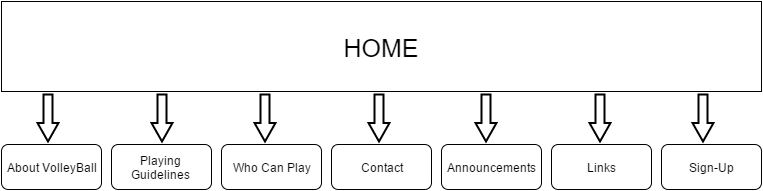
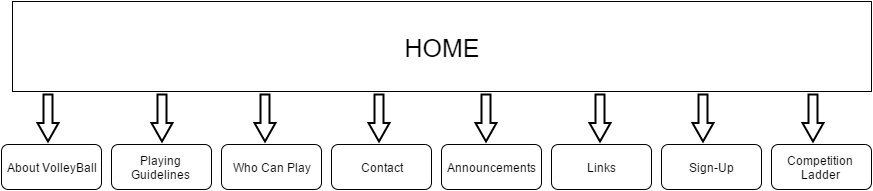
Final Commit

diff --git a/Competition_Ladder.html b/Competition_Ladder.html
@@ -22,10 +22,135 @@
     <li><a href='Announcements.html' id="link">Announcements</a></li>
     <li><a href='Links.html' id="link">Links</a></li>
     <li><a href='Sign-Up.html' id="link">Sign-Up </a></li>
+    <li><a href='Competition_Ladder.html' id="link">Competition Ladder </a></li>
+    
 </ul>
 </nav>
 <!-- InstanceBeginEditable name="Content" -->
-<div id='content'></div>
+<div id='content'><table width="873" height="521" border="1">
+  <tr>
+    <td>Pos</td>
+    <td>Team</td>
+    <td>Played</td>
+    <td>Wins</td>
+    <td>Losses</td>
+    <td>Draws</td>
+    <td>For Pts</td>
+    <td>Against Pts</td>
+    <td>Points</td>
+  </tr>
+  <tr>
+    <td align="right">1</td>
+    <td><a name="RANGE!C5">Beachies</a></td>
+    <td align="right">13</td>
+    <td align="right">13</td>
+    <td align="right">0</td>
+    <td align="right">0</td>
+    <td align="right">651</td>
+    <td align="right">312</td>
+    <td align="right">189</td>
+  </tr>
+  <tr>
+    <td align="right">2</td>
+    <td><a name="RANGE!C6">Wardsandy</a></td>
+    <td align="right">13</td>
+    <td align="right">10</td>
+    <td align="right">2</td>
+    <td align="right">1</td>
+    <td align="right">541</td>
+    <td align="right">443</td>
+    <td align="right">169</td>
+  </tr>
+  <tr>
+    <td align="right">3</td>
+    <td><a name="RANGE!C7">Flashmann</a></td>
+    <td align="right">14</td>
+    <td align="right">8</td>
+    <td align="right">5</td>
+    <td align="right">1</td>
+    <td align="right">559</td>
+    <td align="right">552</td>
+    <td align="right">167</td>
+  </tr>
+  <tr>
+    <td align="right">4</td>
+    <td><a name="RANGE!C8">Googlers</a></td>
+    <td align="right">14</td>
+    <td align="right">7</td>
+    <td align="right">6</td>
+    <td align="right">1</td>
+    <td align="right">558</td>
+    <td align="right">485</td>
+    <td align="right">163</td>
+  </tr>
+  <tr>
+    <td align="right">5</td>
+    <td><a name="RANGE!C9">Kumeras</a></td>
+    <td align="right">14</td>
+    <td align="right">8</td>
+    <td align="right">6</td>
+    <td align="right">0</td>
+    <td align="right">528</td>
+    <td align="right">517</td>
+    <td align="right">162</td>
+  </tr>
+  <tr>
+    <td align="right">6</td>
+    <td><a name="RANGE!C10">Spikers</a></td>
+    <td align="right">14</td>
+    <td align="right">4</td>
+    <td align="right">9</td>
+    <td align="right">1</td>
+    <td align="right">488</td>
+    <td align="right">588</td>
+    <td align="right">146</td>
+  </tr>
+  <tr>
+    <td align="right">7</td>
+    <td><a name="RANGE!C11">Pikers</a></td>
+    <td align="right">13</td>
+    <td align="right">4</td>
+    <td align="right">7</td>
+    <td align="right">0</td>
+    <td align="right">495</td>
+    <td align="right">518</td>
+    <td align="right">145</td>
+  </tr>
+  <tr>
+    <td align="right">8</td>
+    <td><a name="RANGE!C12">Kimkhis</a></td>
+    <td align="right">14</td>
+    <td align="right">3</td>
+    <td align="right">11</td>
+    <td align="right">0</td>
+    <td align="right">537</td>
+    <td align="right">623</td>
+    <td align="right">139</td>
+  </tr>
+  <tr>
+    <td align="right">9</td>
+    <td><a name="RANGE!C13">Setties</a></td>
+    <td align="right">12</td>
+    <td align="right">6</td>
+    <td align="right">6</td>
+    <td align="right">0</td>
+    <td align="right">460</td>
+    <td align="right">484</td>
+    <td align="right">137</td>
+  </tr>
+  <tr>
+    <td align="right">10</td>
+    <td><a name="RANGE!C14">Side Out</a></td>
+    <td align="right">12</td>
+    <td align="right">3</td>
+    <td align="right">9</td>
+    <td align="right">0</td>
+    <td align="right">454</td>
+    <td align="right">451</td>
+    <td align="right">136</td>
+  </tr>
+  </table>
+</div>
 <!-- InstanceEndEditable --></div>
 
 <footer>2015 Diggers Beach Volleyball. All Rights Reserved</footer>

diff --git a/Sign-Up.html b/Sign-Up.html
@@ -22,38 +22,40 @@
     <li><a href='Announcements.html' id="link">Announcements</a></li>
     <li><a href='Links.html' id="link">Links</a></li>
     <li><a href='Sign-Up.html' id="link">Sign-Up </a></li>
+    <li><a href='Competition_Ladder.html' id="link">Competition Ladder </a></li>
+    
 </ul>
 </nav>
 <!-- InstanceBeginEditable name="Content" -->
 <div id="content">
   <form name="form1" method="post" action="">
     <h1>Sign-UP
-      </h>
-    <table width="992" height="231" border="1">
+      </h1>
+    <table width="972" height="231" border="1">
       <tr>
         <td width="125">First Name</td>
         <td width="778"><label for="LName"></label>
-          <input name="FName" type="text" id="FName" size="50"></td>
+          <input name="FName" type="text" id="FName" value="" size="50" style="font-weight:bolder"></td>
       </tr>
             <tr>
         <td>Last Name</td>
         <td><label for="LName"></label>
-          <input name="LName" type="text" id="LName" size="50"></td>
+          <input name="LName" type="text" id="LName" size="50" style="font-weight:bolder"></td>
       </tr>
       <tr>
         <td>Phone Number</td>
         <td><label for="textfield2"></label>
-          <input name="textfield2" type="text" id="textfield2" size="20"></td>
+          <input name="textfield2" type="text" id="textfield2" size="20"style="font-weight:bolder"></td>
       </tr>
       <tr>
         <td>Email Address</td>
         <td><label for="textfield3"></label>
-          <input name="textfield3" type="text" id="textfield3" size="100"></td>
+          <input name="textfield3" type="text" id="textfield3" size="50"style="font-weight:bolder"></td>
       </tr>
       <tr>
         <td>Competition Day</td>
         <td><label for="select"></label>
-          <select name="select" id="select">
+          <select name="select" id="select"style="font-weight:bolder">
             <option>Monday</option>
             <option>Tuesday</option>
             <option>Wednesday</option>
@@ -68,8 +70,8 @@
           <label for="checkbox"></label></td>
       </tr>
       <tr>
-        <td colspan="2"><input type="submit" name="Submit" id="Submit" value="Submit">
-          <input type="reset" name="Reset" id="Reset" value="Reset"></td>
+        <td colspan="2"><input type="submit" name="Submit" id="Submit" value="Submit" style="font-weight:bolder">
+            <input type="reset" name="Reset" id="Reset" value="Reset"style="font-weight:bolder"></td>
         </tr>
     </table>
     <p>&nbsp;</p>

diff --git a/plan.html b/plan.html
@@ -1,7 +1,7 @@
 <!doctype html>
 <html>
 <head>
-<title>A1 Project Plan for ?Student Name?</title>
+<title>A1 Project Plan for Arjun Angu Velu Rajamanickam</title>
   <meta http-equiv="Content-Type" content="text/html; charset=iso-8859-1">
   <style type="text/css">
     body { font-family: Arial; margin-left: 3em; }
@@ -16,16 +16,19 @@
 <p><strong>Name:</strong> Arjun Angu Velu Rajamanickam<br>
 <strong>Login:</strong> jc305967</p>
 <h2>Mission</h2>
-<div>Diggers beach volleyball web site aims to increase revenue for the company by encouraging more people to play at Diggers. It is intended to attract people and inform them about Beach volleyball is a great family sport so that young people would enjoy the&nbsp;recreational&nbsp;services offered. It is not an online shop (customers can not buy online).</div>
+<div>Diggers beach volleyball web site aims to increase revenue for the company by encouraging more people to play at Diggers. <br>
+It is intended to attract people and inform them about Beach volleyball is a great family sport so that young people would enjoy the&nbsp;recreational&nbsp;services offered. <br>
+It is not an online shop (customers can not buy online).</div>
 <br>
 <p>&nbsp;</p>
 <h2>Success Evaluation</h2>
-<p> ...</p>
+<p>The main success measurement will be an increase in players at Diggers each week. Other advertising will be consistent for a period of 3 months (except for the new web site), so that any increase in players should be attributable to the site.</p>
 <h2>Target Audience</h2>
-<p>...</p>
+<p>Locals, mostly males between the ages of 35 and 50 form the majority of current customers, and now we aim at younger audience, getting high school kids adn young adults playing.<br>
+More people would come, play and watch competitions if they knew about Diggers beach volleyball more.</p>
 <h2>Site Flowchart (Structure Diagram)</h2>
 <p><img src="Images/Flowchart.png" width="763" height="191"></p>
 <h2>GitHub Repository</h2>
-<p><a href="http://github.com/...">...</a></p>
+<p><a href="https://github.com/arjunavr/diggersbeachvolleyball">https://github.com/arjunavr/diggersbeachvolleyball</a></p>
 </body>
 </html>

diff --git a/Index.html b/Index.html
@@ -1,4 +1,4 @@
-<!DOCTYPE html>
+-<!DOCTYPE html>
 <html><!-- InstanceBegin template="/Templates/template.dwt" codeOutsideHTMLIsLocked="false" -->
 	<head>
 	<!-- InstanceBeginEditable name="Title" -->
@@ -22,10 +22,12 @@
     <li><a href='Announcements.html' id="link">Announcements</a></li>
     <li><a href='Links.html' id="link">Links</a></li>
     <li><a href='Sign-Up.html' id="link">Sign-Up </a></li>
+    <li><a href='Competition_Ladder.html' id="link">Competition Ladder </a></li>
+    
 </ul>
 </nav>
 <!-- InstanceBeginEditable name="Content" -->
-<div id='content'><img src="Images/PicMonkeyCollage.jpg" width="1000" height="550"></div>
+<img src="Images/PicMonkeyCollage.jpg" width="1000" height="550">
 <!-- InstanceEndEditable --></div>
 
 <footer>2015 Diggers Beach Volleyball. All Rights Reserved</footer>

diff --git a/About VolleyBall.html b/About VolleyBall.html
@@ -22,6 +22,8 @@
     <li><a href='Announcements.html' id="link">Announcements</a></li>
     <li><a href='Links.html' id="link">Links</a></li>
     <li><a href='Sign-Up.html' id="link">Sign-Up </a></li>
+    <li><a href='Competition_Ladder.html' id="link">Competition Ladder </a></li>
+    
 </ul>
 </nav>
 <!-- InstanceBeginEditable name="Content" -->

diff --git a/Announcements.html b/Announcements.html
@@ -22,6 +22,8 @@
     <li><a href='Announcements.html' id="link">Announcements</a></li>
     <li><a href='Links.html' id="link">Links</a></li>
     <li><a href='Sign-Up.html' id="link">Sign-Up </a></li>
+    <li><a href='Competition_Ladder.html' id="link">Competition Ladder </a></li>
+    
 </ul>
 </nav>
 <!-- InstanceBeginEditable name="Content" -->

diff --git a/Contact.html b/Contact.html
@@ -22,6 +22,8 @@
     <li><a href='Announcements.html' id="link">Announcements</a></li>
     <li><a href='Links.html' id="link">Links</a></li>
     <li><a href='Sign-Up.html' id="link">Sign-Up </a></li>
+    <li><a href='Competition_Ladder.html' id="link">Competition Ladder </a></li>
+    
 </ul>
 </nav>
 <!-- InstanceBeginEditable name="Content" -->

diff --git a/Links.html b/Links.html
@@ -22,6 +22,8 @@
     <li><a href='Announcements.html' id="link">Announcements</a></li>
     <li><a href='Links.html' id="link">Links</a></li>
     <li><a href='Sign-Up.html' id="link">Sign-Up </a></li>
+    <li><a href='Competition_Ladder.html' id="link">Competition Ladder </a></li>
+    
 </ul>
 </nav>
 <!-- InstanceBeginEditable name="Content" -->

diff --git a/Playing Guidelines.html b/Playing Guidelines.html
@@ -22,6 +22,8 @@
     <li><a href='Announcements.html' id="link">Announcements</a></li>
     <li><a href='Links.html' id="link">Links</a></li>
     <li><a href='Sign-Up.html' id="link">Sign-Up </a></li>
+    <li><a href='Competition_Ladder.html' id="link">Competition Ladder </a></li>
+    
 </ul>
 </nav>
 <!-- InstanceBeginEditable name="Content" -->

diff --git a/Who Can Play.html b/Who Can Play.html
@@ -22,6 +22,8 @@
     <li><a href='Announcements.html' id="link">Announcements</a></li>
     <li><a href='Links.html' id="link">Links</a></li>
     <li><a href='Sign-Up.html' id="link">Sign-Up </a></li>
+    <li><a href='Competition_Ladder.html' id="link">Competition Ladder </a></li>
+    
 </ul>
 </nav>
 <!-- InstanceBeginEditable name="Content" -->

diff --git a/CSS/style.css b/CSS/style.css
@@ -39,8 +39,10 @@ nav{
 	opacity: 0.6;
 	border: 1px solid #000;
 	background-color: #ffffff;
-	font-size:14px;
+	font-size:24px;
+	
 }
+
 h2{
 text-align:center; 
 color:red; 
@@ -49,6 +51,12 @@ font-size:2em;
 article {
 padding:20px;
 font-size:20px;
+}
+
+td
+{
+	color: #000;
+	font-weight: bolder;
 }
 
 footer{
